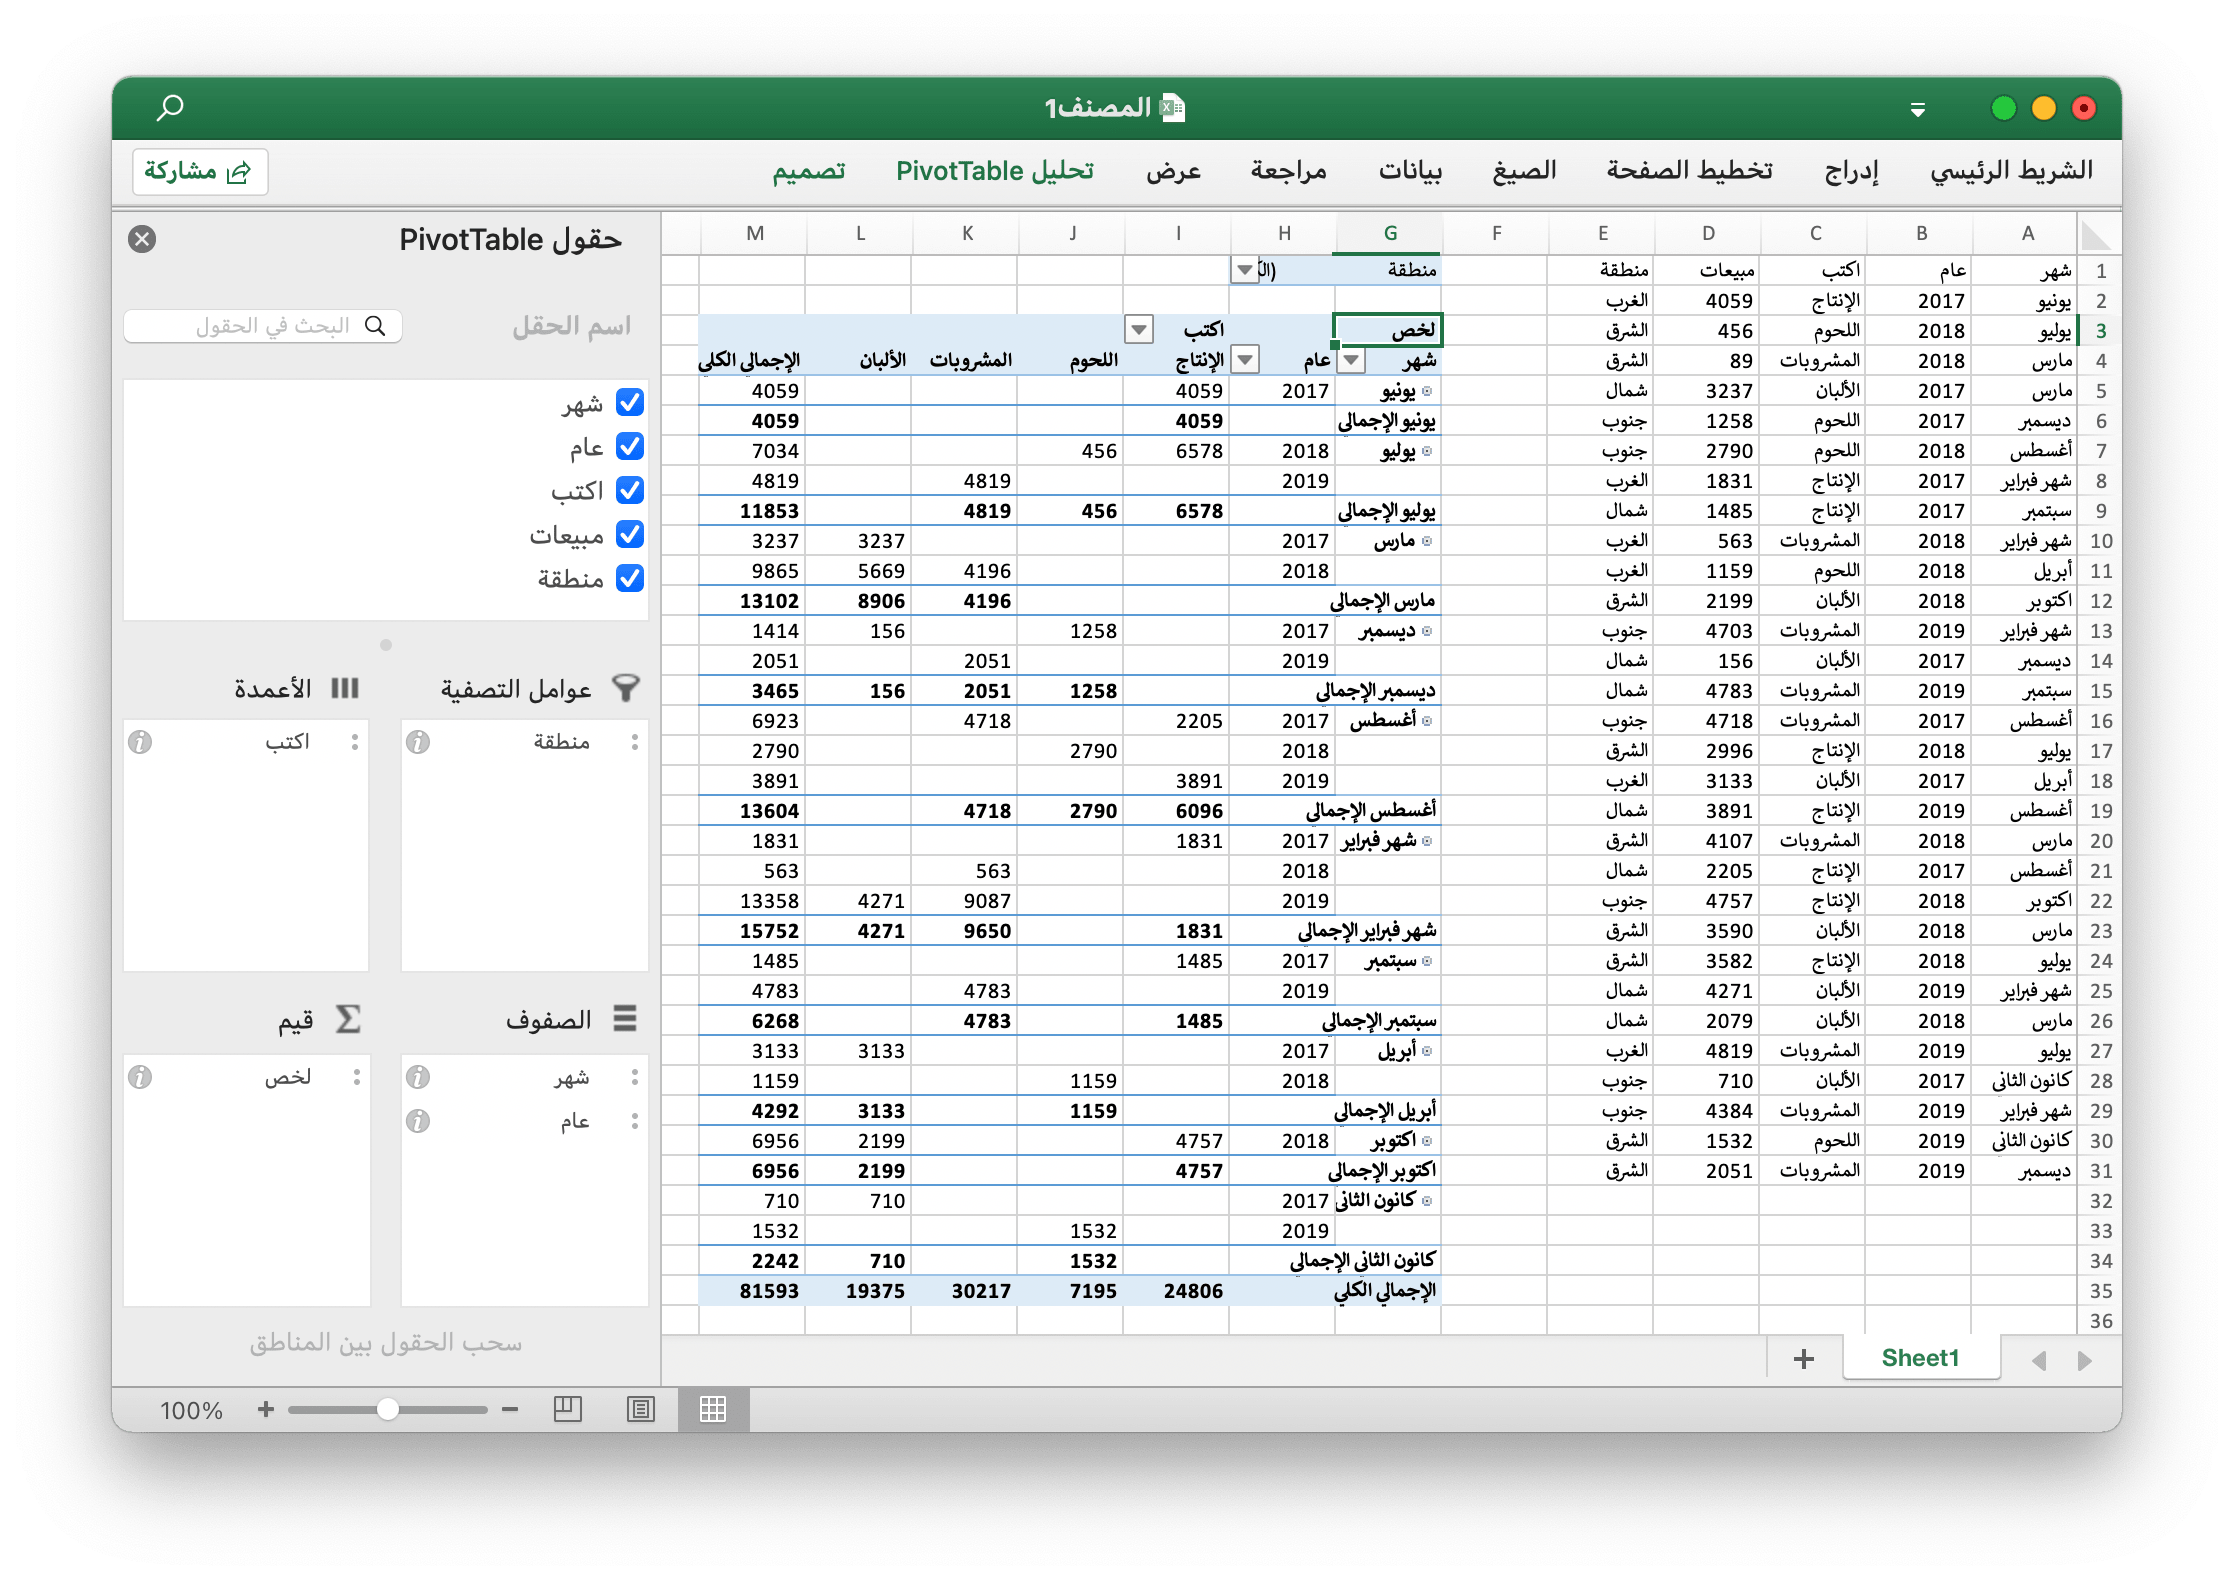
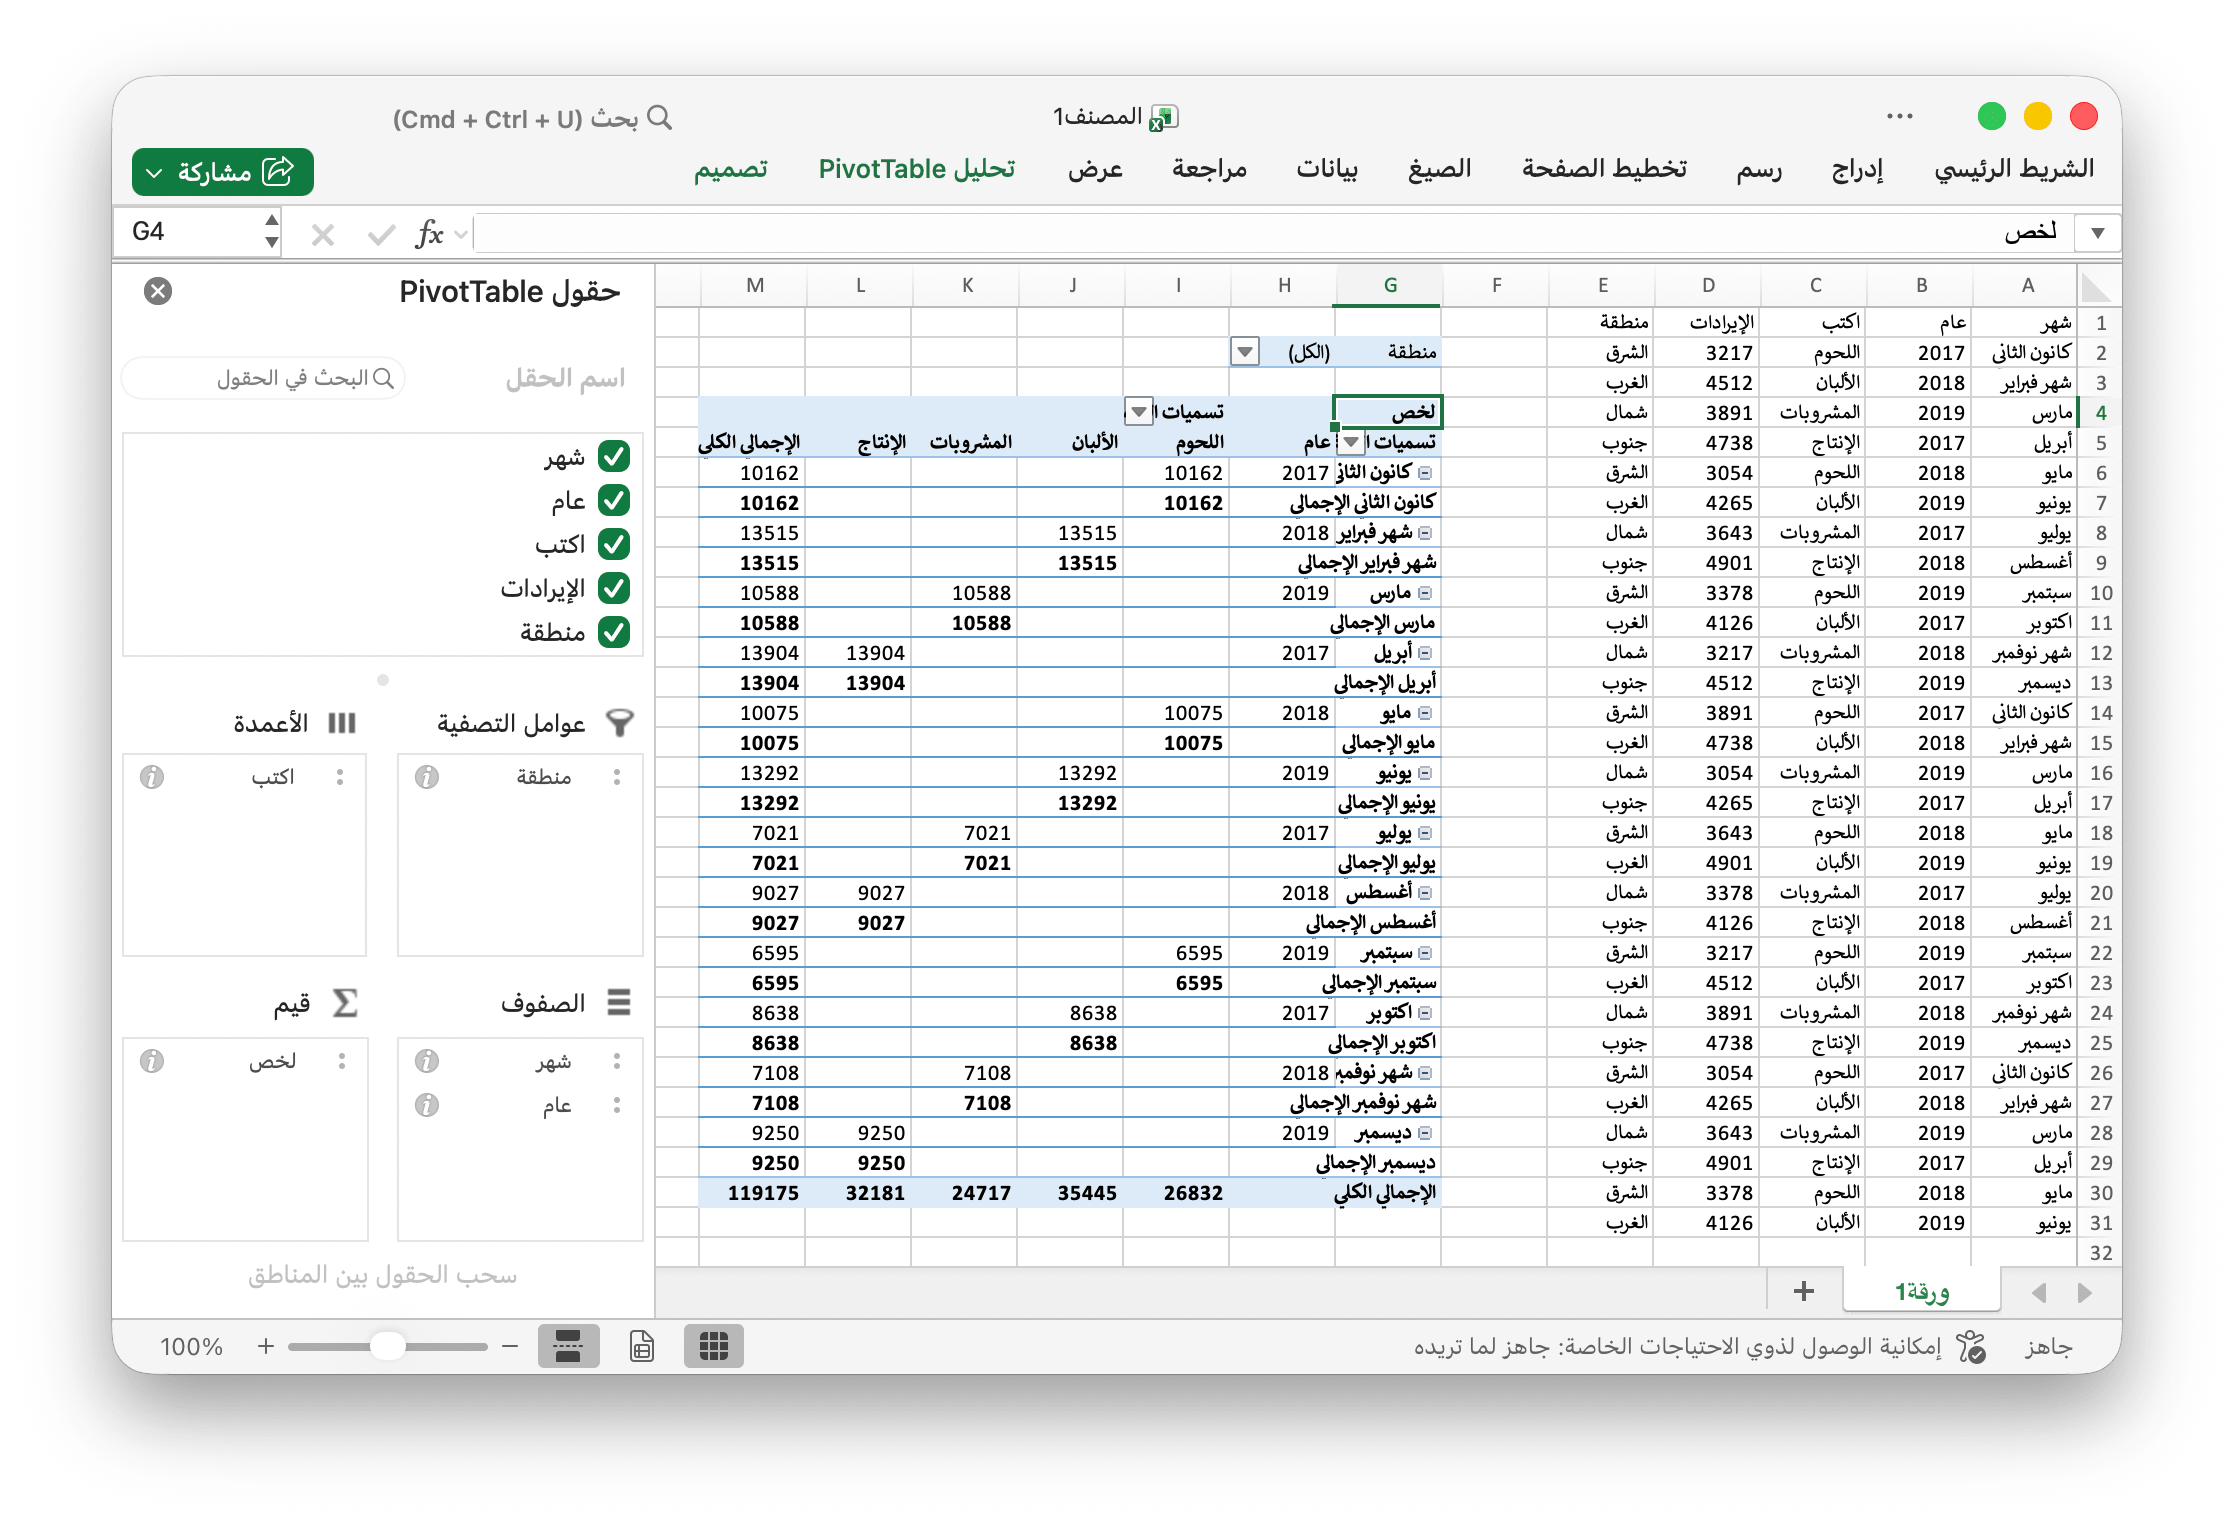
Update ar version docs for new SelectedItems fields in PivotTableOptions and SlicerOptions data type
- This related for xuri/excelize#2154, and xuri/excelize#2271

Changed region(s): [[0.0309, 0.0309, 0.9575, 0.9264], [0.0618, 0.6485, 0.2162, 0.7411], [0.0618, 0.4941, 0.0927, 0.525]]

diff --git a/ar/pivot.md b/ar/pivot.md
@@ -55,6 +55,7 @@ type PivotTableField struct {
     Subtotal        string
     DefaultSubtotal bool
     NumFmt          int
+    SelectedItems   []string
 }
 ```
 
@@ -76,6 +77,8 @@ type PivotTableField struct {
 
 يحدد `Name` اسم حقل البيانات. الحد الأقصى المسموح به `255` حرفًا في اسم حقل البيانات ، وسيتم قطع الأحرف الزائدة.
 
+يُحدد حقل `SelectedItems` العناصر المحددة افتراضيًا في حقل جدول محوري. يجب أن تكون العناصر المحددة قيمًا ضمن نطاق الخلايا المشار إليه بواسطة هذا الحقل.
+
 ## إنشاء جدول محوري {#AddPivotTable}
 
 ```go
@@ -84,7 +87,7 @@ func (f *File) AddPivotTable(opts *PivotTableOptions) error
 
 يوفر AddPivotTable طريقة لإضافة جدول محوري من خلال خيارات الجدول المحوري المحددة.
 
-على سبيل المثال ، أنشئ جدولاً محوريًا في منطقة `Sheet1!$G$2:$M$34` مع المنطقة `Sheet1!$A$1:$E$31` كمصدر للبيانات ، ولخص بالمجموع للمبيعات:
+على سبيل المثال ، أنشئ جدولاً محوريًا في منطقة `ورقة1!G4:M31` مع المنطقة `ورقة1!A1:E31` كمصدر للبيانات ، ولخص بالمجموع للمبيعات:
 
 <p align="center"><img width="1117" src="./images/pivot_table_01.png" alt="إنشاء جدول محوري باستخدام excelize باستخدام Go"></p>
 
@@ -93,7 +96,6 @@ package main
 
 import (
     "fmt"
-    "math/rand"
 
     "github.com/xuri/excelize/v2"
 )
@@ -105,8 +107,12 @@ func main() {
             fmt.Println(err)
         }
     }()
+    if err := f.SetSheetName("Sheet1", "ورقة1"); err != nil {
+        fmt.Println(err)
+        return
+    }
     enable := true
-    if err := f.SetSheetView("Sheet1", -1, &excelize.ViewOptions{
+    if err := f.SetSheetView("ورقة1", -1, &excelize.ViewOptions{
         RightToLeft: &enable,
     }); err != nil {
         fmt.Println(err)
@@ -117,26 +123,35 @@ func main() {
         "يونيو", "يوليو", "أغسطس", "سبتمبر", "اكتوبر", "شهر نوفمبر", "ديسمبر"}
     year := []int{2017, 2018, 2019}
     types := []string{"اللحوم", "الألبان", "المشروبات", "الإنتاج"}
+    revenue := []int{3217, 4512, 3891, 4738, 3054, 4265, 3643, 4901, 3378, 4126}
     region := []string{"الشرق", "الغرب", "شمال", "جنوب"}
-    f.SetSheetRow("Sheet1", "A1", &[]string{"شهر", "عام", "اكتب", "مبيعات", "منطقة"})
+    if err := f.SetSheetRow(
+        "ورقة1", "A1", &[]string{"شهر", "عام", "اكتب", "الإيرادات", "منطقة"},
+    ); err != nil {
+        fmt.Println(err)
+        return
+    }
     for row := 2; row < 32; row++ {
-        f.SetCellValue("Sheet1", fmt.Sprintf("A%d", row), month[rand.Intn(12)])
-        f.SetCellValue("Sheet1", fmt.Sprintf("B%d", row), year[rand.Intn(3)])
-        f.SetCellValue("Sheet1", fmt.Sprintf("C%d", row), types[rand.Intn(4)])
-        f.SetCellValue("Sheet1", fmt.Sprintf("D%d", row), rand.Intn(5000))
-        f.SetCellValue("Sheet1", fmt.Sprintf("E%d", row), region[rand.Intn(4)])
+        f.SetCellValue("ورقة1", fmt.Sprintf("A%d", row), month[(row-2)%len(month)])
+        f.SetCellValue("ورقة1", fmt.Sprintf("B%d", row), year[(row-2)%len(year)])
+        f.SetCellValue("ورقة1", fmt.Sprintf("C%d", row), types[(row-2)%len(types)])
+        f.SetCellValue("ورقة1", fmt.Sprintf("D%d", row), revenue[(row-2)%len(revenue)])
+        f.SetCellValue("ورقة1", fmt.Sprintf("E%d", row), region[(row-2)%len(region)])
     }
     if err := f.AddPivotTable(&excelize.PivotTableOptions{
-        DataRange:       "Sheet1!A1:E31",
-        PivotTableRange: "Sheet1!G2:M34",
+        DataRange:       "ورقة1!A1:E31",
+        PivotTableRange: "ورقة1!G4:M31",
         Rows: []excelize.PivotTableField{
-            {Data: "شهر", DefaultSubtotal: true}, {Data: "عام"}},
+            {Data: "شهر", DefaultSubtotal: true}, {Data: "عام"},
+        },
         Filter: []excelize.PivotTableField{
             {Data: "منطقة"}},
         Columns: []excelize.PivotTableField{
-            {Data: "اكتب", DefaultSubtotal: true}},
+            {Data: "اكتب", DefaultSubtotal: true},
+        },
         Data: []excelize.PivotTableField{
-            {Data: "مبيعات", Name: "لخص", Subtotal: "Sum"}},
+            {Data: "الإيرادات", Name: "لخص", Subtotal: "Sum"},
+        },
         RowGrandTotals: true,
         ColGrandTotals: true,
         ShowDrill:      true,

diff --git a/ar/README.md b/ar/README.md
@@ -9,7 +9,7 @@ Excelize هي مكتبة مكتوبة في الذهاب نقية توفير مج
 - go.dev: [pkg.go.dev/github.com/xuri/excelize/v2](https://pkg.go.dev/github.com/xuri/excelize/v2)
 - التراخيص: [BSD 3-Clause](https://opensource.org/licenses/BSD-3-Clause)
 - الإصدار الأخير: [v2.10.1](https://github.com/xuri/excelize/releases/latest)
-- وقت تحديث المستند: 11 مارس 2026
+- وقت تحديث المستند: 28 مارس 2026
 
 ## بعثة المشروع
 
